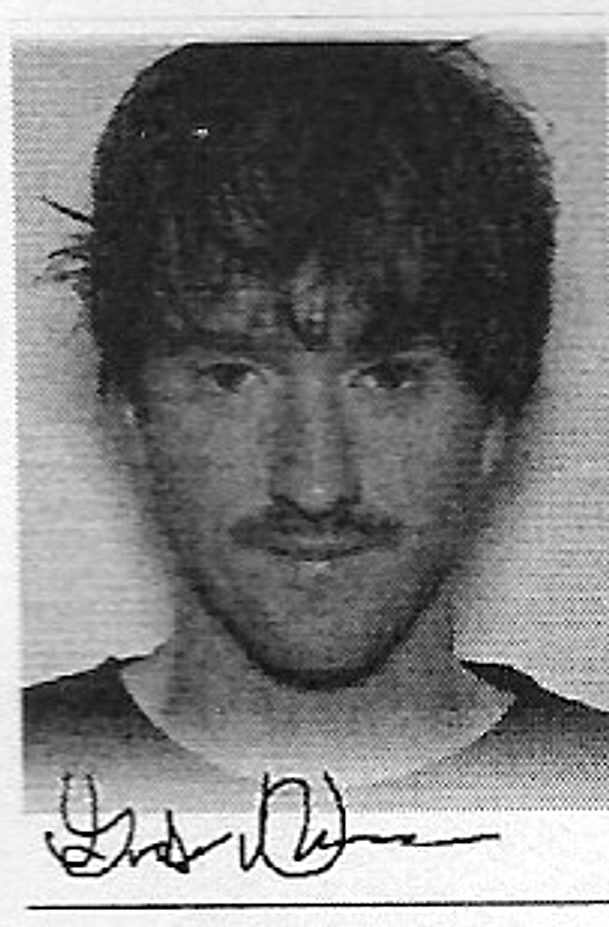
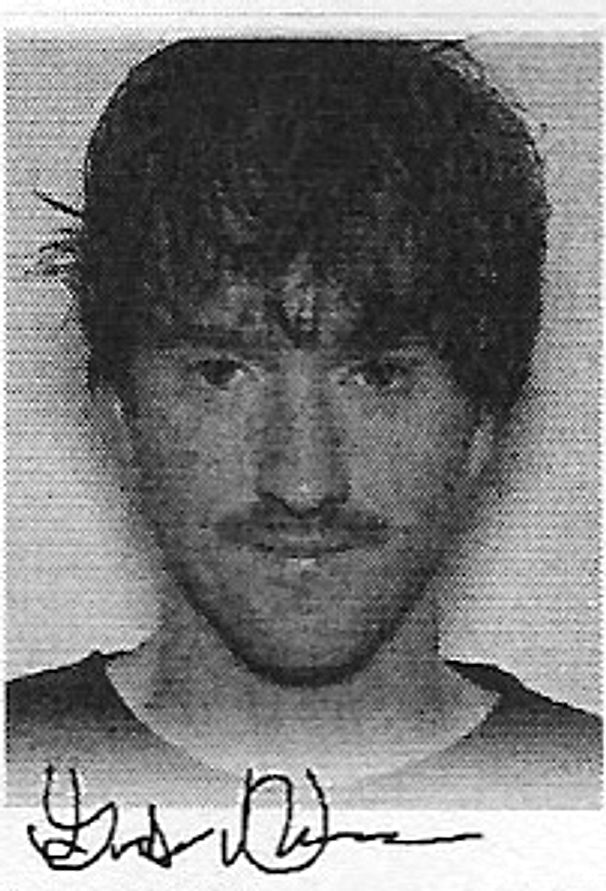
CV: newer ID scan, twice the size, padded in its own corner column

diff --git a/css/cv.css b/css/cv.css
@@ -467,11 +467,16 @@ body.viewing-media .row.entry:not(.is-open) .t-name a.open { color: transparent;
 .comment .c-books ul { list-style: none; margin: 0; padding: 0; }
 .comment .c-books li { padding: 0.12rem 0; line-height: 1.3; }
 
-/* Top-left corner: scanned ID photo hangs over the header rows like a pasted-in picture */
-.top .gutter.corner { position: relative; overflow: visible; z-index: 5; padding: 0; }
-.top .gutter.corner a { position: absolute; top: 0; left: 0; width: var(--gutter); display: block; line-height: 0; }
-.top .gutter.corner img {
-  width: 100%; height: auto; display: block;
-  border-right: 1px solid var(--line); border-bottom: 1px solid var(--line);
-  background: #fff;
+/* Top-left corner: scanned ID photo + signature. The header's first column
+   widens to hold it (with a little padding) and the title row grows so the
+   photo fits the three header rows exactly. Photo aspect ~1.47 (606x891). */
+.top { --pw: 5.5rem; --pp: 0.45rem; --tabsh: 1.75rem; --ph: calc(var(--pw) * 1.47 + 2 * var(--pp)); }
+.top .gutter { width: calc(var(--pw) + 2 * var(--pp)); }
+.trow.head, .trow.head > .cell { height: calc(var(--ph) - var(--row) - var(--tabsh)); }
+.trow.head > .cell { align-items: flex-end; padding-bottom: 0.3rem; }
+.top .gutter.corner { position: relative; overflow: visible; z-index: 5; padding: 0; align-items: flex-start; }
+.top .gutter.corner a { position: absolute; top: var(--pp); left: var(--pp); width: var(--pw); display: block; line-height: 0; }
+.top .gutter.corner img { width: 100%; height: auto; display: block; outline: 1px solid var(--line); }
+@media (max-width: 720px) {
+  .top { --pw: 3.75rem; --tabsh: 2.25rem; }
 }
